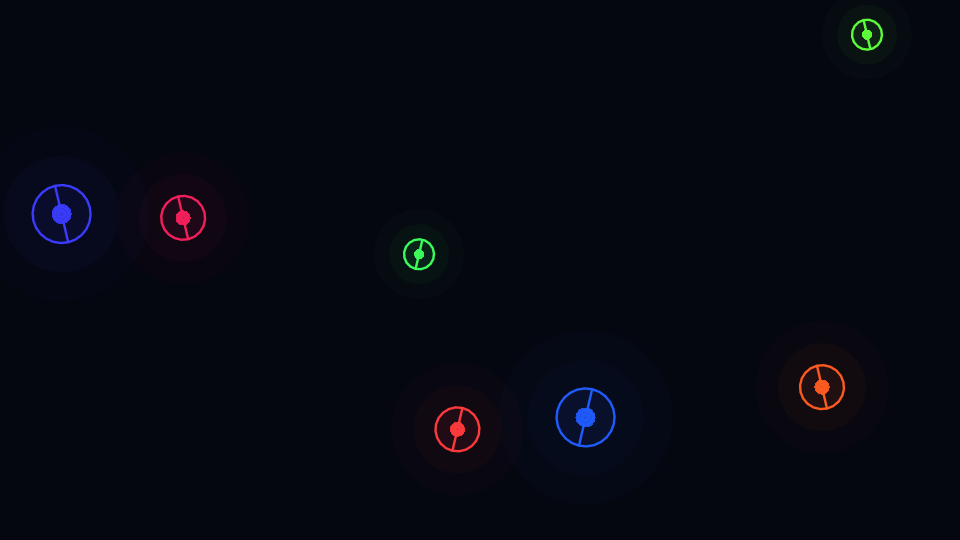
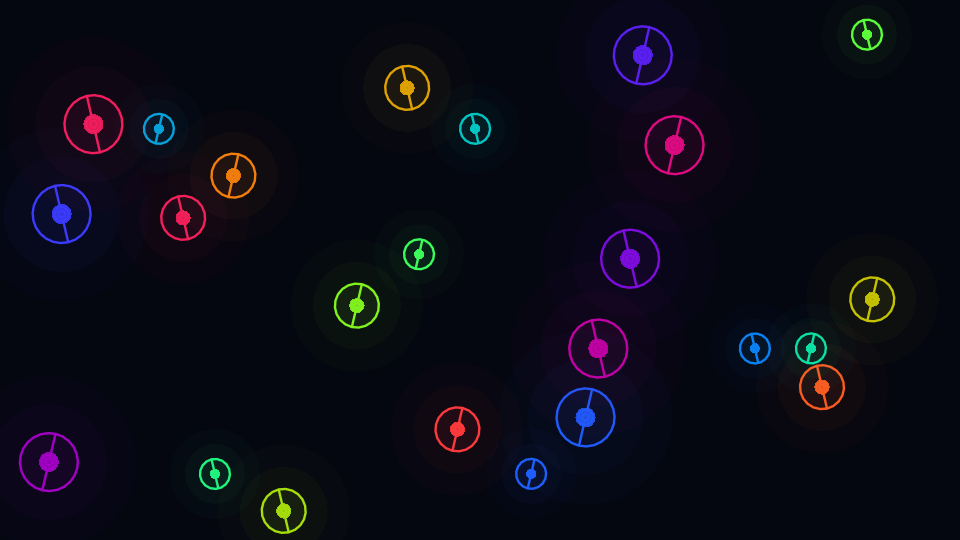
Increase Neon Pokeballs density across screen sizes

diff --git a/README.md b/README.md
@@ -4,7 +4,7 @@ Screensaver gives your idle Gen1Recomp game five animated escapes, with an optio
 
 ## Install
 
-1. Download `Screensaver-v1.0.2.zip` from [the latest release](https://github.com/Bentley734/Screensaver/releases/latest).
+1. Download `Screensaver-v1.0.3.zip` from [the latest release](https://github.com/Bentley734/Screensaver/releases/latest).
 2. Extract the `screensaver` folder into Gen1Recomp's `mods` directory, enable **Screensaver** in the mod manager and restart the game.
 3. Open **Options → Screensaver**, choose an effect and use **Preview** or leave the controls idle.
 
@@ -16,7 +16,7 @@ Requires Gen1Recomp 0.3.54 or newer within the 0.3.x series. Targets Red, Blue, 
 |---|---|
 | Star Warp | Blue-white star trails stream out from a glowing vanishing point. |
 | Aurora Veil | Layers of green, blue and violet light drift beneath a crescent moon. |
-| Neon Pokeballs | Seven luminous outlines bounce, rotate and drift across the screen. |
+| Neon Pokeballs | 24 luminous balls bounce and rotate at 16:9; 48 fill a 32:9 screen, scaling with the layout. |
 | Prism Garden | A rotating sixfold garden of color-shifting diamonds. |
 | Moonlit Ripples | Expanding elliptical rings and wandering fireflies. |
 
@@ -55,5 +55,6 @@ python gen1recomp-0.3.54/tools/modkit.py lint Screensaver
 ```
 
 All effects are original procedural drawings, using ordinary LÖVE primitives with no shader or texture dependencies.
+
 
 

diff --git a/CHANGELOG.md b/CHANGELOG.md
@@ -1,5 +1,10 @@
 # Changelog
 
+## [1.0.3] - 2026-10-22
+
+### Changed
+- Neon Pokeballs now uses 24 balls at 16:9 and 48 at 32:9, scaling up to 96 on larger layouts to fill more of the screen.
+
 ## [1.0.2] - 2026-10-22
 
 ### Added
